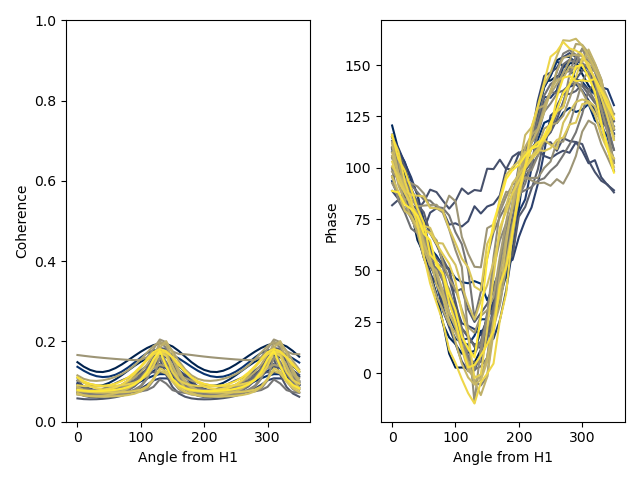
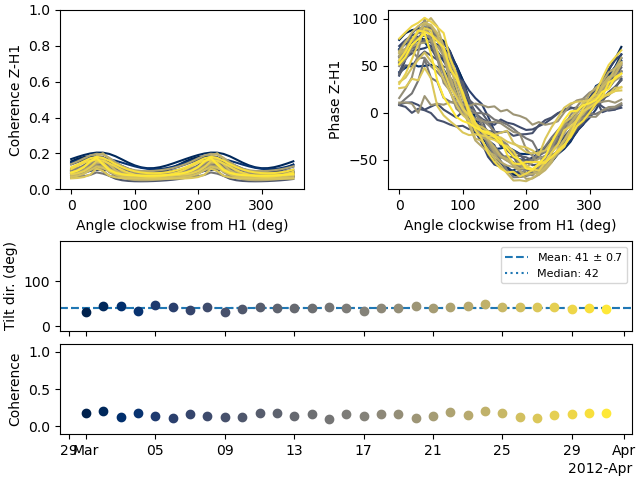
added coherence subplot in tilt figure, cleaned up code base, and updated documentation

diff --git a/obstools/scripts/atacr_clean_spectra.py b/obstools/scripts/atacr_clean_spectra.py
@@ -166,7 +166,7 @@ def get_cleanspec_arguments(argv=None):
         action="store_true",
         dest="fig_tilt",
         default=False,
-        help="Plot Coherence, phase and tilt direction figure. " +
+        help="Plot coherence, phase and tilt direction figure. " +
         "[Default does not plot figure]")
     FigureGroup.add_argument(
         "--figCross",
@@ -349,7 +349,7 @@ def main(args=None):
         dstart = str(tstart.year).zfill(4)+'.'+str(tstart.julday).zfill(3)+'-'
         dend = str(tend.year).zfill(4)+'.'+str(tend.julday).zfill(3)+'.'
         fileavst = avstpath / (dstart+dend+'avg_sta.pkl')
-        filetilt = avstpath / (dstart+dend+'tilt.txt')
+        filetilt = avstpath / (dstart+dend+'tilt.csv')
 
         if fileavst.exists():
             if not args.ovr:
@@ -387,6 +387,7 @@ def main(args=None):
         # Date + tilt list
         date_list = []
         tilt_list = []
+        coh_list = []
 
         # Loop through each day withing time range
         while t1 < tend:
@@ -408,6 +409,7 @@ def main(args=None):
                 file.close()
                 tilt_list.append(daynoise.rotation.tilt)
                 date_list.append(t1.date)
+                coh_list.append(daynoise.rotation.coh_value)
                 stanoise += daynoise
             else:
                 t1 += 3600.*24.
@@ -624,13 +626,14 @@ def main(args=None):
 
         # Write out events
         print()
-        print("* Tilt direction as function of time saved to: ")
+        print("* Tilt direction and coherence as function of time saved to: ")
         print("*   "+str(filetilt))
         print()
         fid = open(filetilt, 'w')
-        fid.writelines("Date, Tilt azimuth (deg from H1)\n")
+        fid.writelines("Date, Tilt dir. (deg from H1), Max coherehce\n")
         for i in range(len(tilt_list)):
-            line1 = "{0},{1:.0f}\n".format(date_list[i], tilt_list[i])
+            line1 = "{0},{1:.0f},{2:.2f}\n".format(
+                date_list[i], tilt_list[i], coh_list[i])
             fid.writelines(line1.replace(" ", ""))
         fid.close()
 

diff --git a/obstools/atacr/plotting.py b/obstools/atacr/plotting.py
@@ -267,31 +267,37 @@ def fig_coh_ph(coh, ph, direc, tilt, date):
         mediantilt = np.median(tilt)
 
         plt.rcParams['date.converter'] = 'concise'
-        f = plt.figure()
-        gs = GridSpec(3, 2, figure=f)
-        ax1 = f.add_subplot(gs[0:-1, 0])
-        ax2 = f.add_subplot(gs[0:-1, 1])
+        f = plt.figure(layout='constrained')
+        gs = GridSpec(4, 2, figure=f)
+        ax1 = f.add_subplot(gs[0:-2, 0])
+        ax2 = f.add_subplot(gs[0:-2, 1])
         ax3 = f.add_subplot(gs[2, :])
+        ax4 = f.add_subplot(gs[3, :])
         ax3.axhline(
-            np.mean(tilt),
+            meantilt,
             ls='--',
-            label='Mean: {0:.0f} $\pm$ {1:.1f}'.format(meantilt, stdetilt))
+            label=r'Mean: {0:.0f} $\pm$ {1:.1f}'.format(meantilt, stdetilt))
         ax3.axhline(
-            np.median(tilt),
+            mediantilt,
             ls=':',
-            label='Median: {0:.0f}'.format(np.median(tilt)))
+            label='Median: {0:.0f}'.format(mediantilt))
         for i, (co, p, d, t) in enumerate(zip(coh, ph, date, tilt)):
+            mcoh = np.max(co)
             ax1.plot(direc, co, c=colors[i])
             ax2.plot(direc, p*180./np.pi, c=colors[i])
             ax3.plot(d, t, 'o', c=colors[i])
-        ax3.legend(loc='best', fontsize=8)
+            ax4.plot(d, mcoh, 'o', c=colors[i])
         ax1.set_ylabel('Coherence Z-H1')
         ax1.set_ylim((0, 1.))
-        ax2.set_ylabel('Phase Z-H1')
-        ax3.set_ylabel('Tilt direction (deg)')
         ax1.set_xlabel('Angle clockwise from H1 (deg)')
+        ax2.set_ylabel('Phase Z-H1')
         ax2.set_xlabel('Angle clockwise from H1 (deg)')
-        plt.tight_layout()
+        ax3.legend(loc='best', fontsize=8)
+        ax3.set_xticklabels([])
+        ax3.set_ylabel('Tilt dir. (deg)')
+        ax3.set_ylim(-10, 190)
+        ax4.set_ylabel('Coherence')
+        ax4.set_ylim(-0.1, 1.1)
 
     else:
         plt.figure()

diff --git a/obstools/atacr/utils.py b/obstools/atacr/utils.py
@@ -304,7 +304,7 @@ def get_event(eventpath, tstart, tend):
     # Find out how many events from Z.SAC files
     eventfiles = list(eventpath.glob('*Z.SAC'))
     if not eventfiles:
-        raise(Exception("No event found in folder "+str(eventpath)))
+        raise Exception("No event found in folder "+str(eventpath))
 
     # Extract events from time stamps
     prefix = [file.name.split('.') for file in eventfiles]
@@ -451,6 +451,8 @@ def calculate_tilt(ft1, ft2, ftZ, ftP, f, goodwins, tiltfreqs):
         tilt += 180.
     if tilt > 360.:
         tilt -= 360.
+    if tilt > 180.:
+        tilt -= 180.
 
     # print('Tilt corrected = ', tilt)
 
@@ -489,6 +491,8 @@ def calculate_tilt(ft1, ft2, ftZ, ftP, f, goodwins, tiltfreqs):
         tilt -= 360.
     elif tilt < 0:
         tilt += 360.
+    if tilt > 180.:
+        tilt -= 180.
 
     # Now calculate spectra at tilt direction
     ftH = rotate_dir(ft1, ft2, tilt)
@@ -617,16 +621,14 @@ def phase(Gxy):
 
 def rotate_dir(x, y, theta):
 
-    d = -theta*np.pi/180.
-    rot_mat = [[np.cos(d), -np.sin(d)],
-               [np.sin(d), np.cos(d)]]
+    d = theta*np.pi/180.
+    rot_mat = [[np.cos(d), np.sin(d)],
+               [-np.sin(d), np.cos(d)]]
 
     vxy = [x, y]
     vxy_rotated = np.tensordot(rot_mat, vxy, axes=1)
-    tr_2 = vxy_rotated[0]
-    tr_1 = vxy_rotated[1]
 
-    return tr_1
+    return vxy_rotated[1]
 
 
 def ftest(res1, pars1, res2, pars2):

diff --git a/obstools/scripts/atacr_download_data.py b/obstools/scripts/atacr_download_data.py
@@ -414,7 +414,7 @@ def main(args=None):
         while t2 <= tend:
 
             # Time stamp
-            tstamp = str(t1.year).zfill(4)+'.'+str(t1.julday).zfill(3)+'.'
+            tstamp = str(t1.year).zfill(4)+'.'+str(t1.julday).zfill(3)
 
             print("\n"+"*"*60)
             print("* Downloading day-long data for key {0} and day {1}.{2:03d}".format(
@@ -441,7 +441,7 @@ def main(args=None):
                     t2 += dt
                     continue
 
-            print("*   "+tstamp +"*.SAC")
+            print("*   " + tstamp + ".*.SAC")
             # Get waveforms from client, one channel at a time
             try:
                 cha = sta.channel.upper() + '1'

diff --git a/docs/atacr.rst b/docs/atacr.rst
@@ -487,7 +487,7 @@ Usage
       --debug          Plot intermediate steps for debugging. [Default does not
                        plot figure]
       --figAverage     Plot daily average figure. [Default does not plot figure]
-      --figCoh         Plot Coherence and Phase figure. [Default does not plot
+      --figTilt        Plot coherence, phase and tilt direction figure. [Default does not plot
                        figure]
       --figCross       Plot cross-spectra figure. [Default does not plot figure]
       --save-fig       Set this option if you wish to save the figure(s). [Default
@@ -1034,7 +1034,7 @@ therefore using all available data) and plot the results, we can type in a termi
 
 .. code-block::
 
-    $ atacr_clean_spectra --figQC --figAverage --figCoh --figCross M08A.pkl
+    $ atacr_clean_spectra --figQC --figAverage --figTilt --figCross M08A.pkl
 
     ###################################################################
     #       _                                          _              #
@@ -1071,8 +1071,13 @@ therefore using all available data) and plot the results, we can type in a termi
 
     ...
 
-And so on until all ``DayNoise`` objects are averaged into a ``StaNoise`` 
-object, which is saved to a newly created folder called ``AVG_STA/7D.M08A/``.
+    * Clean station spectra saved to: 
+    *   AVG_STA/7D.M08A/2011.293-2012.200.avg_sta.pkl
+
+    * Tilt direction as function of time saved to: 
+    *   AVG_STA/7D.M08A/2011.293-2012.200.tilt.csv
+
+The new ``StaNoise`` object and the daily tilt directions are saved to a newly created folder called ``AVG_STA/7D.M08A/``.
 
 .. note ::
 
@@ -1095,9 +1100,13 @@ Several figures are also produced, including Figures 4, 6-9.
 
 Figure 4: The orientation of maximum coherence between the vertical and the two
 horizontal components for M08A during March 2012. (Left) Coherence as a function
-of angle from the H1 component. (Right) Phase as a function of the angle. In this
-example, the coherence is low indicating the absence of dominant, uni-directional tilt
-noise.
+of angle from the H1 component. (Right) Phase as a function of the angle. 
+(Bottom) Tilt direction measured from the H1 component as a function of time. 
+In this example, the coherence is low indicating low tilt noise.
+
+.. note ::
+
+    In the MATLAB version of ``ATaCR``, the "Angle from H1" (Figure 4 in the manual) corresponds to a counter-clockwise rotation of H1 and H2, and the orientation is chosen at the lowest phase. Here, the angle corresponds to a clockwise rotation and the estimate is chosen to lie between 0 and 180 degrees. There is therefore a 225-degree difference between those two estimates, and the plots are mirrored.
 
 .. figure:: ../obstools/examples/figures/Figure_6.png
    :align: center
